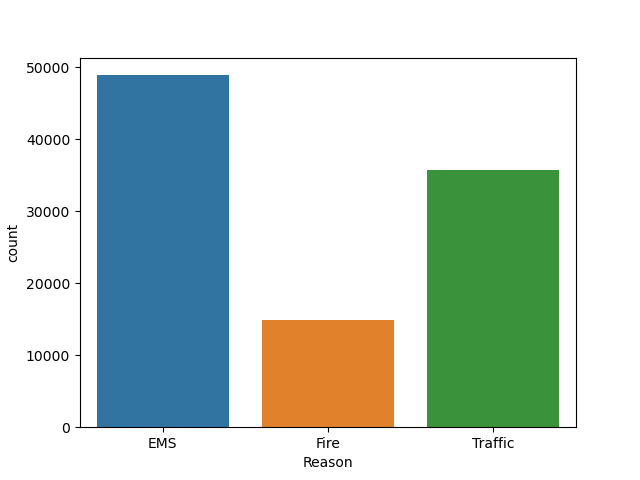
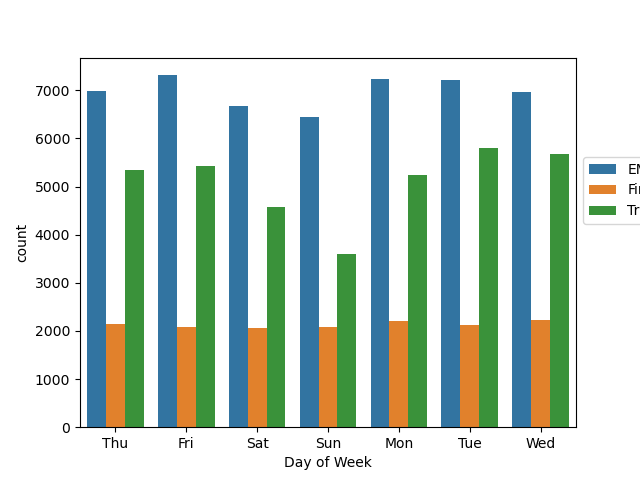
making progress on project

diff --git a/datasci/dsudemy/project/capstone911.py b/datasci/dsudemy/project/capstone911.py
@@ -9,12 +9,9 @@ df = pd.read_csv('911.csv')
 df['Reason'] =  df['title'].apply(lambda x: x.split(':')[0])
 
 
-
-
 df['timeStamp'] = pd.to_datetime(df['timeStamp'])
        
         
-
 df['Hour'] = df['timeStamp'].apply(lambda x: x.hour)
 
 df['Month'] = df['timeStamp'].apply(lambda x : x.month)
@@ -34,16 +31,22 @@ dmap = {
 
 df['Day of Week'] = df['Day of Week'].map(dmap)
 
+byMonth =  df.groupby('Month').count()
+
+# To do.
+
+sns.lineplot(data = byMonth, x = 'Month')
+
 # print(df['Reason'])
 
-sns.countplot(x = 'Day of Week' , hue = 'Reason',  data  = df)
+# sns.countplot(x = 'Month' , hue = 'Reason',  data  = df)
 
 
-plt.legend(bbox_to_anchor=(1.0, 0.75))
+# plt.legend(bbox_to_anchor=(1.0, 0.75))
 
 
 
-
+# plt.savefig('countplot.png')
 
 
 

diff --git a/datasci/dsudemy/project/capstoneproject.md b/datasci/dsudemy/project/capstoneproject.md
@@ -157,16 +157,6 @@ Fire       14920
 Name: Reason, dtype: int64
 ````
 
-Now we will visualize the data by creating a countplot by using seaborn for `Reason` column.
-
-````python
-df = pd.read_csv('911.csv')
-sns.countplot(x = 'Reason' , data = df )
-````
-which returns the following count plot:
-
-
-![Countplot for Reasons column](countplot.png)
 
 Now let us focus on time information. What is the data type of the objects in the timeStamp column?
 
@@ -210,11 +200,23 @@ df['Day of Week'] = df['timeStamp'].apply(lambda x: x.dayofweek)
 ````
 Now let's use seaborn to create a countplot of the `Day of Week` column with the hue based off of the Reason column. We can do this by typing the following code:
 ````python
-sns.countplot(x = 'Day of Week' , data  = df)
+sns.countplot(x = 'Day of Week' , hue = 'Reason'  data  = df)
+plt.legend(bbox_to_anchor=(1.0, 0.75)) # put legend outside of plot
 ````
 
- 
+which returns the following plot: 
 
 
 
 
+![Countplot for 'day of week' column](countplot.png)
+
+We can create a similar plot for the `Month` column which can be done in the following way:
+````python
+sns.countplot(x = 'Month' , hue = 'Reason' , data = df)
+plt.legend(bbox_to_anchor=(1.0, 0.75)) # put legend outside of plot
+````
+
+![Countplot for the 'month' column ](month_countplot.png)
+
+Notice that there is something wrong with our countplot of the `Month` column above; that is, we have months 9-11 that have not been accounted for. A solution for this is to create a simple line plot that will fill in the missing information. 
